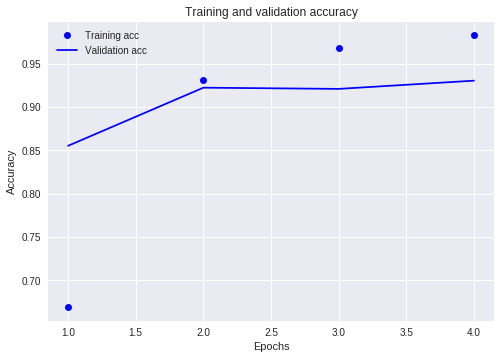
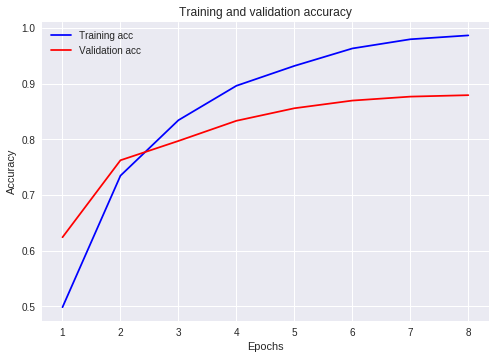
update, add authors

diff --git a/main.py b/main.py
@@ -13,7 +13,7 @@ def text2vec(text, dictionary):
     text = tagger.parse(text)
     words_list = text.split(' ')
     # 単語列をID列に変換する
-    id_list = np.full(50, 88888) # 未知語のIDは88888とする
+    id_list = np.full(50, 109999) # 未知語のIDは109999とする
     for i, word in enumerate(words_list):
         if i >= 50:
             break
@@ -50,9 +50,9 @@ if __name__ == '__main__':
 
     text = input('判定する文章：')
     predictions = model.predict(text2vec(text, dictionary))
-    #vec = [1,639,1297,51,13397,47,10,0,693,30,1110,1598,15,334,10,109,2044,9,1,4292,17,0,4092,1094,25908,13,4349,2606,4240,10,3664,8,97,17,91,8,6,0,16932,3545,16,1616,15,0,25908,15,39494,211,10,0]
-    #doc = vec2text(vec, dictionary)
-    #print(doc)
+    # vec = [1,639,1297,51,13397,47,10,0,693,30,1110,1598,15,334,10,109,2044,9,1,4292,17,0,4092,1094,25908,13,4349,2606,4240,10,3664,8,97,17,91,8,6,0,16932,3545,16,1616,15,0,25908,15,39494,211,10,0]
+    # doc = vec2text(vec, dictionary)
+    # print(doc)
     # 結果表示
     for i, author in enumerate(authors):
-        print('{}度:'.format(author), predictions[0][i])
+        print('{}度:\t'.format(author), round(predictions[0][i], 3))

diff --git a/README.md b/README.md
@@ -5,7 +5,7 @@
 ![demo](./samples/demo1.gif)
 
 - 対応している文豪
-  - 夏目漱石、芥川龍之介、森鴎外、太宰治
+  - 森鴎外、小川未明、岡本かの子、与謝野晶子、夏目漱石、折口信夫、太宰治、泉鏡花、芥川龍之介
 
 # Requirements
 ## To Predict
@@ -58,12 +58,16 @@ plaidml.keras.install_backend() # for PlaidML (AMDのGPUを使用している場
 `青空文庫から作品をダウンロード`->`訓練データ＆テストデータの作成`->`モデルの訓練`
 
 ## データセットの作成
-夏目漱石、芥川龍之介、森鴎外、太宰治の場合を例にして、データセット作成手順を説明します。
+データセット作成手順を説明します。
 
 ### 作品のダウンロード
 - [青空文庫 作家別一括ダウンロード](http://keison.sakura.ne.jp/)
 
-上記のサイトから、夏目漱石、芥川龍之介、森鴎外、太宰治の作品をダウンロードし、解凍します。`data`ディレクトリを作成し、解凍したフォルダをそれぞれ`natsume`, `akutagawa`, `mori`, `dazai`という名前で保存します。
+上記のサイトから、好きな文豪の作品をダウンロードし、解凍します。`data/works`ディレクトリを作成し、解凍したフォルダをそれぞれ保存します。
+
+```
+$ mkdir -p data/works
+```
 
 ### テキストの前処理
 ルビ、注釈、ヘッダー、フッターや記号などを削除し、テキストを分かち書きにします。
@@ -72,7 +76,7 @@ plaidml.keras.install_backend() # for PlaidML (AMDのGPUを使用している場
 $ python3 pre_processing.py
 ```
 
-実行すると、`data/natsume.csv`、`data/akutagawa.csv`、`data/mori.csv`、`data/dazai.csv`が作成されます。このCSVファイルは51列あり、はじめの50列には単語が1語ずつ、最後の1列には正解ラベルが書かれています。
+実行すると、`data/(作家名).csv`が作成されます。このCSVファイルは51列あり、はじめの50列には単語が1語ずつ、最後の1列には正解ラベルが書かれています。
 
 ### 辞書の作成
 各単語に固有のIDを振るための辞書を作ります。
@@ -94,6 +98,7 @@ $ python3 make_train_test_data.py
 `data/train.csv`は60,000行、`data/test.csv`は10,000行あります。
 `data/train.csv`を用いて訓練、`data/test.csv`を用いて評価を行います。
 
+
 ## モデルの訓練
 [`pred_author.ipynb`](https://github.com/9sako6/BungoClassifier/blob/master/pred_author.ipynb)を参考にしてください。モデルの訓練にはGPUが必要です。
 ちなみに、筆者は[Google Colab](https://colab.research.google.com/)で訓練を行いました。
@@ -106,29 +111,7 @@ $ python3 make_train_test_data.py
 
 訓練が完了すると、`pre_trained_model.h5`が作成されます。これを`data`ディレクトリ内に保存します。このファイルは学習済みのモデルの重みを記録したものです。実行時にはこの重みを使い、推論を行います。
 
-## ディレクトリ構造
-最終的に、以下のような構造になります。
 
-```
-.
-├── README.md
-├── data
-│   ├── bungo_dict.txt
-│   ├── pre_trained_model.h5
-│   ├── natsume.csv
-│   ├── akutagawa.csv
-│   ├── mori.csv
-│   ├── dazai.csv
-│   ├── all_data.csv
-│   ├── test.csv
-│   └── train.csv
-├── main.py
-├── make_dictionary.py
-├── make_train_test_data.py
-├── pre_processing.py
-├── pred_author.ipynb
-└── samples
-```
 
 ### 結果
 以下のような結果になりました。
@@ -138,10 +121,39 @@ $ python3 make_train_test_data.py
 ![acc](./samples/acc.png)
 
 
-最終的に、validation accuracyは約93%となりました。
+最終的に、validation accuracyは約87.7%となりました。
 
-テストデータにおける評価では正解率92.98%となりました。
+テストデータにおける評価では正解率87.9%となりました。
 
+
+# 課題
+
+## 入力文が短い場合に精度が低い
+実際に推論を行なってみて気づいたことですが、入力文が短いと精度が悪いです。たとえ「吾輩は猫である」を入力したとしても、夏目漱石に近いと判定できません。
+
+![nekodearu](./samples/problem1.png)
+
+この原因は、入力文が50単語だと決め打って訓練を行なったことだと考えられます。
+50単語だと決め打ったのは、「文」の定義が難しかったからです。
+
+> 「僕はそんな事は考えない。」不精々々に木村が答えた。
+
+のような場合、`「僕はそんな事は考えない。」`と`不精々々に木村が答えた。`をそれぞれ1文とするか、`「僕はそんな事は考えない。」不精々々に木村が答えた。`を1文とするか、結構悩ましいです。
+このあたりのことをあまり考えたくなかったので、入力は1文ではなく50単語、と決めて訓練をしました。
+
+
+さらに今回、入力文が50単語に満たない場合は空の文字列を表すIDを割り当ててリサイズしました。
+問題だと思われるのは、未知語に対しても同じIDを割り当ててしまっていることです。
+入力文が短い場合に精度が悪くなる一因になっている気がします。
+kerasの`Embedding(mask_zero=True)`などを使えばゼロパディングしてくれるようなので、この辺をうまく使いたいです。
+
+## データサイズのばらつき
+作品数は作家ごとにかなり異なっています。
+訓練データ、テストデータを作成する際はそこを考慮しませんでした。
+データの数を均等にして訓練すると精度が上がるかどうか検証したいです。
+
+## その他：UnicodeDecodeError
+`pre_processing.py`を実行すると、ちょこちょこエラーを吐きます。これはおそらく、作品名に含まれる空白等が原因で作品名をうまく読み込めていないからだと思います。
 
 # 参考
 - [LSTMを使ってテキストの多クラス分類をする](https://blog.codingecho.com/2018/03/25/lstm%E3%82%92%E4%BD%BF%E3%81%A3%E3%81%A6%E3%83%86%E3%82%AD%E3%82%B9%E3%83%88%E3%81%AE%E5%A4%9A%E3%82%AF%E3%83%A9%E3%82%B9%E5%88%86%E9%A1%9E%E3%82%92%E3%81%99%E3%82%8B/)
